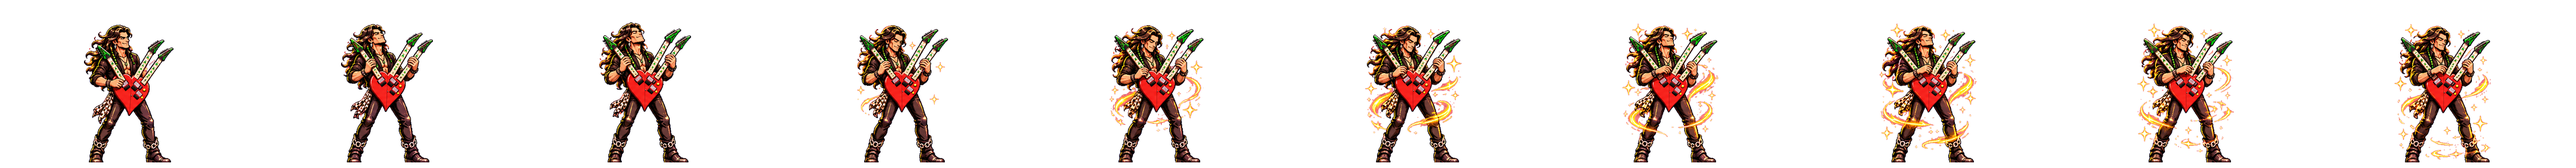
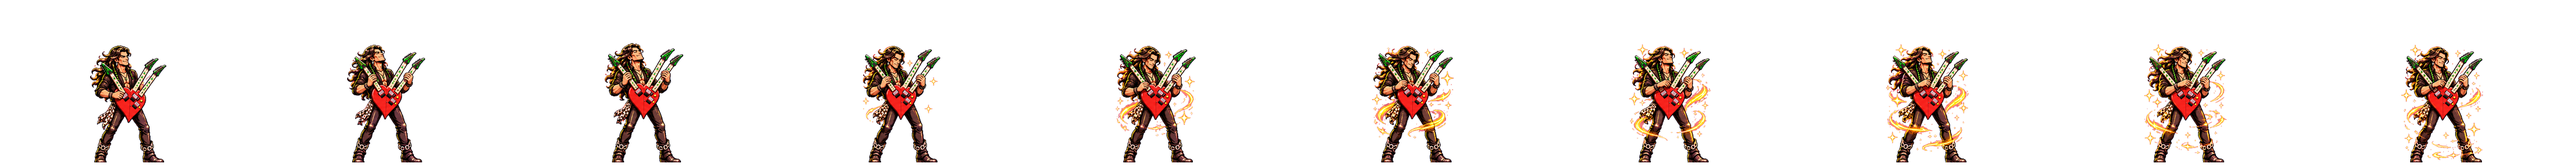
fix: proporção dos golpes do Vai igual à do parado

diff --git a/game.js b/game.js
@@ -424,15 +424,15 @@ const VAI_MOVES = {
   // PASSION AND WARFARE: as fadas da capa do disco saem voando e perseguem o oponente
   fairies: { anim: 'greenmen', dur: [3, 4, 4, 5, 5, 6, 5, 5, 5, 4], frames: [0, 2, 4, 6, 8, 10, 11, 12, 13, 14], swarm: 4, tex: 'fx_fairy', payload: FAIRY, count: 5, swarmScale: 0.42 },
   // THIRD EYE: o terceiro olho se abre na testa e solta uma espiral hipnótica que rola devagar
-  thirdeye: { dur: [5, 6, 6, 6, 8, 6, 6, 8, 8, 8], spawn: 8, tex: 'fx_spiral', payload: SPIRAL, speed: [2.8, 3.8], projScale: 0.85, projY: 195, projBox: [120, 120], projAdd: true,
-    eyeBeam: 8, eyeAt: [5, -195] }, // feixe da testa até a espiral (desenhado no jogo); eyeAt: testa em px do quadro, a partir dos pés
+  thirdeye: { dur: [5, 6, 6, 6, 8, 6, 6, 8, 8, 8], spawn: 8, tex: 'fx_spiral', payload: SPIRAL, speed: [2.8, 3.8], projScale: 0.85, projY: 166, projBox: [120, 120], projAdd: true,
+    eyeBeam: 8, eyeAt: [4, -166] }, // feixe da testa até a espiral (desenhado no jogo); eyeAt: testa em px do quadro, a partir dos pés
   // FEVER DREAM (A + D): toca a guitarra coração vermelha de três braços e solta ondas de sonho; quem leva dorme
   feverdream: { dur: [6, 8, 8, 10, 10, 10, 10, 10, 10, 8], waves: [4, 6, 8], tex: 'fx_dream', payload: DREAM },
   // SUPER FOR THE LOVE OF GOD (A + S com a barra cheia): tela escura, o triângulo gigante com o olho se acende atrás dele
   // e a guitarra de três braços solta três raios cheios de triângulos
   lovegod: { anim: 'triplefury', dur: [8, 12, 10, 12, 10, 14, 14, 14, 12, 10], active: [5, 6, 7], multi: 3, dmg: 24,
     hit: { x: 60, y: -260, w: 1100, h: 170 }, hitstun: 12, blockstun: 8, push: 1, chip: 4, gag: 'zap', beam: [5, 7], inv: 30, dark: true,
-    super: true, beamTips: [[80, -173], [86, -156], [88, -133]], beamTexs: ['fx_tribeam0', 'fx_tribeam1', 'fx_tribeam2'], beamFx: 'fx_eyeshot', // pontas dos 3 braços (px do quadro, a partir dos pés)
+    super: true, beamTips: [[74, -159], [79, -144], [81, -122]], beamTexs: ['fx_tribeam0', 'fx_tribeam1', 'fx_tribeam2'], beamFx: 'fx_eyeshot', // pontas dos 3 braços (px do quadro, a partir dos pés)
     backdrop: 'fx_bigeye', notes: [2, 4],
     finish: { at: 8, gag: 'burnt', word: ['TOASTED!', '#ff7a1a'] } },
 };
@@ -486,19 +486,19 @@ function vaiCpu(me, op, scene) {
 // ---------------------------------------------------------------------------------------------
 const CHARS = {};
 CHARS.eddie = {
-  name: 'EDDIE', dir: 'eddie', hp: 950, walkF: 3.2, walkB: 2.6, superStage: 'assets/stages/super-eddie.jpg?v=fb98912', // superStage: cena que toma o fundo no super e na vitória
+  name: 'EDDIE', dir: 'eddie', hp: 950, walkF: 3.2, walkB: 2.6, superStage: 'assets/stages/super-eddie.jpg?v=813df9a', // superStage: cena que toma o fundo no super e na vitória
   anims: EDDIE_ANIMS, moves: EDDIE_MOVES, powers: EDDIE_POWERS, specials: EDDIE_SPECIALS, cpu: eddieCpu,
   jumpkick: JUMPKICK, bigTitle: '5150', blurb: 'Brown Sound',
   stage: 'eddie', // palco da casa (ver STAGES)
 };
 CHARS.slash = {
-  name: 'SLASH', dir: 'slash', hp: 1000, walkF: 3.0, walkB: 2.5, superStage: 'assets/stages/super-slash.jpg?v=fb98912', // superStage: cena que toma o fundo no super e na vitória
+  name: 'SLASH', dir: 'slash', hp: 1000, walkF: 3.0, walkB: 2.5, superStage: 'assets/stages/super-slash.jpg?v=813df9a', // superStage: cena que toma o fundo no super e na vitória
   anims: SLASH_ANIMS, moves: SLASH_MOVES, powers: SLASH_POWERS, specials: SLASH_SPECIALS, cpu: slashCpu,
   jumpkick: JUMPKICK, bigTitle: 'APPETITE', bigSize: 150, blurb: 'Top Hat',
   stage: 'slash',
 };
 CHARS.zakk = {
-  name: 'ZAKK', dir: 'zakk', hp: 1100, walkF: 2.7, walkB: 2.25, superStage: 'assets/stages/super-zakk.jpg?v=fb98912', // superStage: cena que toma o fundo no super e na vitória
+  name: 'ZAKK', dir: 'zakk', hp: 1100, walkF: 2.7, walkB: 2.25, superStage: 'assets/stages/super-zakk.jpg?v=813df9a', // superStage: cena que toma o fundo no super e na vitória
   anims: ZAKK_ANIMS, moves: ZAKK_MOVES, powers: ZAKK_POWERS, specials: ZAKK_SPECIALS, cpu: zakkCpu,
   jumpkick: JUMPKICK, bigTitle: 'NO MORE TEARS', bigSize: 95, blurb: 'Black Label',
   stage: 'zakk', vicRate: 28, vicFrames: [0, 1, 2, 4, 5, 6, 7, 8], // sem o quadro 3 (pé no amplificador) e o 9 (braços cruzados)
@@ -506,7 +506,7 @@ CHARS.zakk = {
   // a vitória do Zakk é uma sequência de poses (grito, cerveja, chifrinhos): ~0,5 s cada
 };
 CHARS.vai = {
-  name: 'VAI', dir: 'vai', hp: 900, walkF: 3.5, walkB: 2.9, superStage: 'assets/stages/super-vai.jpg?v=fb98912', // superStage: cena que toma o fundo no super e na vitória
+  name: 'VAI', dir: 'vai', hp: 900, walkF: 3.5, walkB: 2.9, superStage: 'assets/stages/super-vai.jpg?v=813df9a', // superStage: cena que toma o fundo no super e na vitória
   anims: VAI_ANIMS, moves: VAI_MOVES, powers: VAI_POWERS, specials: VAI_SPECIALS, cpu: vaiCpu,
   jumpkick: JUMPKICK, bigTitle: 'FOR THE LOVE OF GOD', bigSize: 78, blurb: 'Ibanez JEM',
   stage: 'stadium', // palco da casa ainda não existe
@@ -523,17 +523,17 @@ const BIRA_HIT = { dmg: 30, hitstun: 50, blockstun: 50, push: 0, chip: 30, word:
 // PALCOS (escolhidos depois dos lutadores). Palco sem imagem não aparece na escolha.
 // Na vitória, qualquer palco dá lugar ao Templo dos Deuses da Guitarra (TEMPLE), com os holofotes no vencedor.
 const STAGES = [
-  { id: 'eddie',    name: "EDDIE'S STAGE",  tag: 'Arena rock',         file: 'assets/stages/palco-eddie.jpg?v=fb98912' },
-  { id: 'slash',    name: 'SUNSET STRIP',   tag: 'Rock bar',           file: 'assets/stages/palco-slash.jpg?v=fb98912' },
-  { id: 'stairway', name: 'STAIRWAY HILL',  tag: 'Airship at dusk',    file: 'assets/stages/cenario-dirigivel.jpg?v=fb98912' },
-  { id: 'pig',      name: 'POWER STATION',  tag: 'Flying pig',         file: 'assets/stages/cenario-usina-porco.jpg?v=fb98912' },
-  { id: 'rooftop',  name: 'LONDON ROOFTOP', tag: 'The last gig',       file: 'assets/stages/cenario-telhado-londres.jpg?v=fb98912' },
-  { id: 'voltage',  name: 'HIGH VOLTAGE',   tag: 'Thunder road',       file: 'assets/stages/cenario-alta-voltagem.jpg?v=fb98912' },
-  { id: 'stadium',  name: "STADIUM '85",    tag: 'Live for the world', file: 'assets/stages/cenario-estadio.jpg?v=fb98912' },
+  { id: 'eddie',    name: "EDDIE'S STAGE",  tag: 'Arena rock',         file: 'assets/stages/palco-eddie.jpg?v=813df9a' },
+  { id: 'slash',    name: 'SUNSET STRIP',   tag: 'Rock bar',           file: 'assets/stages/palco-slash.jpg?v=813df9a' },
+  { id: 'stairway', name: 'STAIRWAY HILL',  tag: 'Airship at dusk',    file: 'assets/stages/cenario-dirigivel.jpg?v=813df9a' },
+  { id: 'pig',      name: 'POWER STATION',  tag: 'Flying pig',         file: 'assets/stages/cenario-usina-porco.jpg?v=813df9a' },
+  { id: 'rooftop',  name: 'LONDON ROOFTOP', tag: 'The last gig',       file: 'assets/stages/cenario-telhado-londres.jpg?v=813df9a' },
+  { id: 'voltage',  name: 'HIGH VOLTAGE',   tag: 'Thunder road',       file: 'assets/stages/cenario-alta-voltagem.jpg?v=813df9a' },
+  { id: 'stadium',  name: "STADIUM '85",    tag: 'Live for the world', file: 'assets/stages/cenario-estadio.jpg?v=813df9a' },
 ];
 const stageById = id => STAGES.find(st => st.id === id);
 // templo da vitória: imagem e posição (em 960x540) e cor dos holofotes do teto
-const TEMPLE = { file: 'assets/stages/templo-vitoria.jpg?v=fb98912', lamps: [[106, 30, 0xffd27a], [184, 36, 0xffe9a8], [781, 36, 0xffe9a8], [845, 32, 0xffd27a]] };
+const TEMPLE = { file: 'assets/stages/templo-vitoria.jpg?v=813df9a', lamps: [[106, 30, 0xffd27a], [184, 36, 0xffe9a8], [781, 36, 0xffe9a8], [845, 32, 0xffd27a]] };
 
 // reações cômicas (folha react do lutador que apanhou): quadros e duração em quadros de jogo; quem está na piada fica invencível
 const GAGS = {
@@ -660,10 +660,10 @@ class Boot extends Phaser.Scene {
     this.load.image('stage', STAGES[0].file); // fundo da tela de escolha
     this.load.image('temple', TEMPLE.file);
     // capa: logo dourado do Rock n' Bira e as canecas de chopp do brinde
-    this.load.image('logo_bira', `assets/ui/logo-rocknbira-gold.png?v=fb98912`);
+    this.load.image('logo_bira', `assets/ui/logo-rocknbira-gold.png?v=813df9a`);
     this.load.image('title_bg', `assets/ui/festa.jpg`); // festa no bar, fundo da capa
-    this.load.spritesheet('mug', `assets/ui/mug.png?v=fb98912`, { frameWidth: 300, frameHeight: 300 });
-    this.load.spritesheet('splash', `assets/ui/splash.png?v=fb98912`, { frameWidth: 300, frameHeight: 300 });
+    this.load.spritesheet('mug', `assets/ui/mug.png?v=813df9a`, { frameWidth: 300, frameHeight: 300 });
+    this.load.spritesheet('splash', `assets/ui/splash.png?v=813df9a`, { frameWidth: 300, frameHeight: 300 });
     for (const st of STAGES) {
       this.load.image(`stage_${st.id}`, st.file);
     }
@@ -674,7 +674,7 @@ class Boot extends Phaser.Scene {
       for (const [n, count] of Object.entries(c.anims)) {
         const key = `${c.dir}_${n}`;
         FRAMES[key] = count;
-        this.load.spritesheet(key, `assets/${c.dir}/${n}.png?v=fb98912`, { frameWidth: FW, frameHeight: FH });
+        this.load.spritesheet(key, `assets/${c.dir}/${n}.png?v=813df9a`, { frameWidth: FW, frameHeight: FH });
       }
     }
   }

diff --git a/index.html b/index.html
@@ -180,5 +180,5 @@ kbd{font-family:var(--px);font-size:10px;background:#2a1a3a;border:1px solid #4a
 })();
 </script>
 <script src="https://cdnjs.cloudflare.com/ajax/libs/phaser/3.80.1/phaser.min.js"></script>
-<script src="game.js?v=fb98912"></script>
+<script src="game.js?v=813df9a"></script>
 </html>
